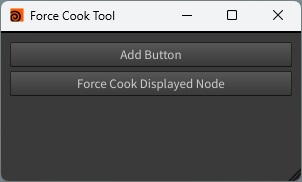
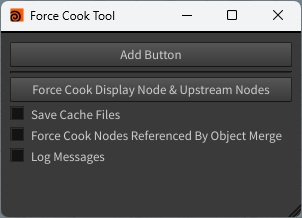
README更新

diff --git a/README.md b/README.md
@@ -1,5 +1,5 @@
 # [Houdini] Force Cook Tool
-ノードを強制的に再クックするためのツールです。
+ノードを強制的に再クックするためのツールです。Pythonノードなど、下流ノードの表示フラグの切り替えだけでは再クックされないノードに対して有効です。
 
 ## 動作確認環境
 Houdini Indie Limited-Commercial 21.0.440
@@ -7,7 +7,7 @@ Houdini Indie Limited-Commercial 21.0.440
 ## 導入方法
 本ツールはシェルフツールです。
 script.pyの内容を登録してください。
-詳細な手順に関しては、過去に作成したツールとほぼ同様ですので、そちらをご参照ください。
+詳細な手順に関しては、過去に作成したツールとほぼ同様ですので、そちらをご覧ください。
 
 [[Houdini] Bezier Curve Tool](https://github.com/iribo0425/bezier_curve_tool?tab=readme-ov-file#%E5%B0%8E%E5%85%A5%E6%96%B9%E6%B3%95)
 
@@ -17,5 +17,7 @@ script.pyの内容を登録してください。
 | | |
 | - | - |
 | Add Button | 選択中のノードに強制クックのボタンを追加します。<br><img src="image/usage001.jpg" width="200"> |
-| Force Cook Display Node | 表示フラグがONになっているノードより上流の全ノードをクックします。<br>以下の例では、null1より上流のpythonノードとsubnetノードの中身を全てクックします。<br><img src="image/usage002.jpg" width="200"> |
-
+| Force Cook Display Node && Upstream Nodes | 表示フラグがONのノードと、そのノードより上流のノードを全て強制クックします。<br>以下の例では、null1ノードと、null1ノードより上流のpythonノードとsubnetノードの中身を全て強制クックします。<br><img src="image/usage002.jpg" width="200"> |
+| Save Cache Files | 強制クックの際に、File CacheノードのSave to Diskを実行するかを設定します。 |
+| Force Cook Nodes Referenced By Object Merge | 強制クックの際に、Object Mergeノードの参照先も強制クックするかを設定します。 |
+| Log Messages | デバッグ用。強制クックの際に、ログをコンソールに出力するかを設定します。 |
